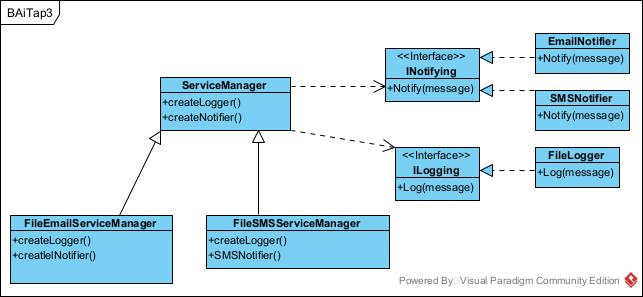
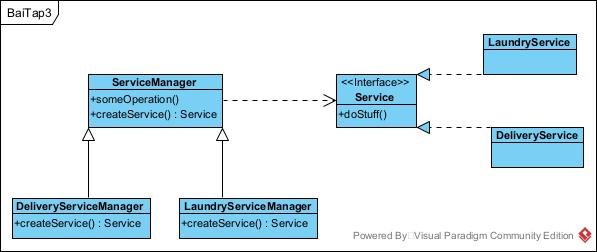
Update BT3

diff --git a/59_2251172528_PhanThiHuyenTrang_BT3/Main.java b/59_2251172528_PhanThiHuyenTrang_BT3/Main.java
@@ -1,85 +1,74 @@
-/*
- * Click nbfs://nbhost/SystemFileSystem/Templates/Licenses/license-default.txt to change this license
- * Click nbfs://nbhost/SystemFileSystem/Templates/Classes/Main.java to edit this template
- */
+
 package pkg59_2251172528_phanthihuyentrang_bt3;
-interface ILogging {
-    void Log(String message);
-}
 
-interface INotifying {
-    void Notify(String message);
-}
+import java.util.Scanner;
 
-class FileLogger implements ILogging {
-    @Override
-    public void Log(String message) {
-        System.out.println("Ghi log: " + message);
+    interface Service {
+        void doStuff();
     }
-}
 
-class EmailNotifier implements INotifying {
-    @Override
-    public void Notify(String message) {
-        System.out.println("Gui thong bao email: " + message);
+
+    class DeliveryService implements Service {
+        @Override
+        public void doStuff() {
+            System.out.println("Dang thuc hien dich vu giao hang.");
+        }
     }
-}
 
-class SMSNotifier implements INotifying {
-    @Override
-    public void Notify(String message) {
-        System.out.println("Gui thong bao SMS: " + message);
+    class LaundryService implements Service {
+        @Override
+        public void doStuff() {
+            System.out.println("Dang thuc hien dich vu giat ui.");
+        }
     }
-}
 
-abstract class ServiceManager{
-    public abstract ILogging createLogger();
-    public abstract INotifying createNotifier();
-}
-
-class FileEmailServiceManager extends ServiceManager{
-
-    @Override
-    public ILogging createLogger(){
-        return new FileLogger();
+    abstract class ServiceManager {
+        public void someOperation() {
+            Service service = createService(); 
+            service.doStuff();                 
+        }
+        public abstract Service createService();
     }
-    
-    @Override
-    public INotifying createNotifier(){
-        return new EmailNotifier();
-    }
-}
 
-class FileSMSServiceManager extends ServiceManager{
+    class DeliveryServiceManager extends ServiceManager {
+        @Override
+        public Service createService() {
+            return new DeliveryService();
+        }
+    }
 
-    @Override
-    public ILogging createLogger(){
-        return new FileLogger();
+    class LaundryServiceManager extends ServiceManager {
+        @Override
+        public Service createService() {
+            return new LaundryService();
+        }
     }
-    
-    @Override
-    public INotifying createNotifier(){
-        return new SMSNotifier();
-    }
-}
 public class Main {
 
     public static void main(String[] args) {
-        ServiceManager email = new  FileEmailServiceManager();
-        ILogging log = email.createLogger();
-        INotifying not = email.createNotifier();
-        
-        log.Log("Email da duoc khoi tao");
-        not.Notify("Chao mung toi email");
-        
-        System.out.println("--------------------");
-        
-        ServiceManager SMS = new  FileSMSServiceManager();
-        ILogging log2 = SMS.createLogger();
-        INotifying not2 = SMS.createNotifier();
-        
-        log2.Log("SMS da duoc khoi tao");
-        not2.Notify("Chao mung toi sms");
+        Scanner scanner = new Scanner(System.in);
+
+        System.out.println("HE THONG QUAN LY DICH VU");
+        System.out.println("1. Dich vu giao hang");
+        System.out.println("2. Dich vu giat ui");
+        System.out.print("Chon dich vu (1-2): ");
+        int choice = scanner.nextInt();
+
+        ServiceManager manager;
+
+        switch (choice) {
+            case 1:
+                manager = new DeliveryServiceManager();
+                break;
+            case 2:
+                manager = new LaundryServiceManager();
+                break;
+            default:
+                System.out.println("Lua chon dich vu.");
+                return;
+        }
+
+        manager.someOperation();
         
     }
     
